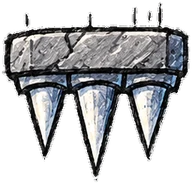
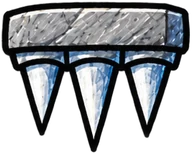
Traps and power-ups from the updated sheet, without drawn-in effects
The mace is rescaled so its chain keeps the old reach; its bolt and ball
constants are measured from the new art.

diff --git a/src/client/game/objects/ObjectRegistry.ts b/src/client/game/objects/ObjectRegistry.ts
@@ -376,11 +376,11 @@ function crusherLift(phase: number): number {
   return 1 - t * t;
 }
 
-// The mace art (hazards/mace-*.webp) shares one 225x256 canvas: the bolt the
+// The mace art (hazards/mace-*.webp) shares one 233x266 canvas: the bolt the
 // chain hangs from, and the ball's center, in that canvas's pixels.
-const MACE_CANVAS = { width: 225, height: 256 };
-const MACE_BOLT = { x: 42, y: 24 };
-const MACE_BALL_OFFSET = { x: 125 - MACE_BOLT.x, y: 185 - MACE_BOLT.y };
+const MACE_CANVAS = { width: 233, height: 266 };
+const MACE_BOLT = { x: 46.6, y: 23.7 };
+const MACE_BALL_OFFSET = { x: 147.7 - MACE_BOLT.x, y: 174 - MACE_BOLT.y };
 // The art draws the chain swung out to the right; rotating by this much
 // makes it hang straight down.
 const MACE_REST_ANGLE_DEG = Phaser.Math.RadToDeg(Math.atan2(MACE_BALL_OFFSET.x, MACE_BALL_OFFSET.y));
